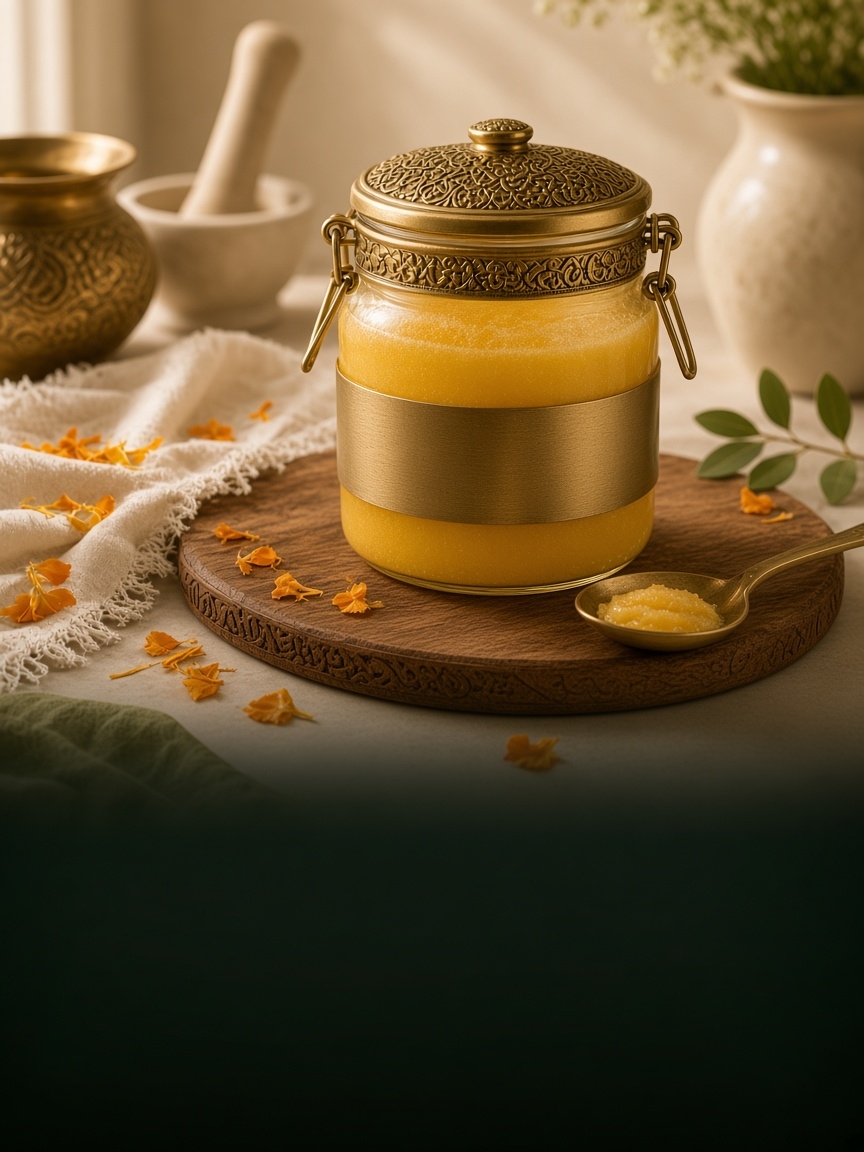
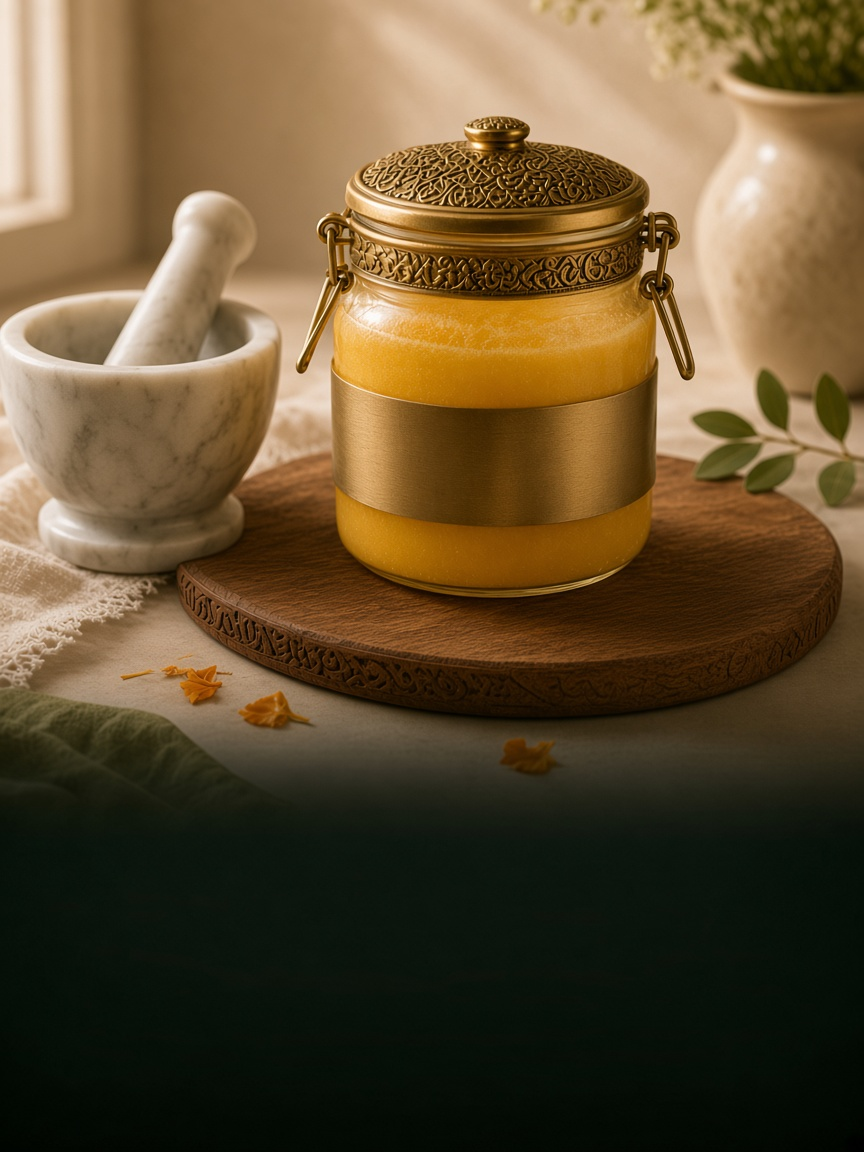
Tighten login card to match the premium split mock.
Fresh brass-jar hero, softer cream page wash, solid form panel, and darker perk chips so web auth reads closer to the reference.

diff --git a/mobile/src/components/auth/AuthSplitLayout.js b/mobile/src/components/auth/AuthSplitLayout.js
@@ -21,8 +21,8 @@ export default function AuthSplitLayout({ artTitle, artSubtitle, mode = "login",
     return <View style={styles.mobileOnly}>{children}</View>;
   }
 
-  const formBg = isDark ? "rgba(20,17,16,0.94)" : "rgba(255,252,246,0.94)";
-  const formBorder = isDark ? "rgba(52, 211, 153, 0.14)" : "rgba(31, 92, 71, 0.14)";
+  const formBg = isDark ? "#141110" : "#FFFEF9";
+  const formBorder = isDark ? "rgba(52, 211, 153, 0.14)" : "rgba(31, 92, 71, 0.1)";
 
   return (
     <View style={[styles.split, isXs && styles.splitStack]}>
@@ -34,14 +34,13 @@ export default function AuthSplitLayout({ artTitle, artSubtitle, mode = "login",
           accessibilityIgnoresInvertColors
         />
         <LinearGradient
-          colors={["rgba(18,16,12,0.28)", "rgba(18,16,12,0.5)", "rgba(12,10,8,0.9)"]}
-          locations={[0, 0.42, 1]}
+          colors={["rgba(18,16,12,0.22)", "rgba(18,16,12,0.42)", "rgba(12,10,8,0.82)"]}
+          locations={[0, 0.4, 1]}
           start={{ x: 0.5, y: 0 }}
           end={{ x: 0.5, y: 1 }}
           style={StyleSheet.absoluteFillObject}
         />
         <KankregGrainOverlay />
-        <View style={styles.artRing} pointerEvents="none" />
         <ScrollView
           style={styles.artScroll}
           contentContainerStyle={styles.artScrollContent}
@@ -64,7 +63,6 @@ export default function AuthSplitLayout({ artTitle, artSubtitle, mode = "login",
           styles.form,
           isXs && styles.formStack,
           { backgroundColor: formBg, borderLeftColor: formBorder },
-          Platform.OS === "web" && styles.formGlass,
         ]}
       >
         <ScrollView
@@ -88,19 +86,20 @@ const styles = StyleSheet.create({
     alignItems: "stretch",
     alignSelf: "center",
     width: "100%",
-    maxWidth: 980,
-    borderRadius: radius.xl + 6,
+    maxWidth: 1000,
+    borderRadius: 28,
     borderWidth: StyleSheet.hairlineWidth,
-    borderColor: "rgba(31, 92, 71, 0.16)",
+    borderColor: "rgba(31, 92, 71, 0.12)",
     overflow: "hidden",
+    backgroundColor: "#FFFEF9",
     ...Platform.select({
       web: {
         boxShadow:
-          "0 32px 72px rgba(22, 69, 51, 0.18), 0 8px 24px rgba(26, 23, 20, 0.08), 0 0 0 1px rgba(31, 92, 71, 0.06)",
-        minHeight: 620,
-        marginTop: 56,
-        marginBottom: 40,
-        marginHorizontal: spacing.md,
+          "0 28px 64px rgba(26, 23, 20, 0.14), 0 8px 20px rgba(22, 69, 51, 0.08)",
+        minHeight: 600,
+        marginTop: 48,
+        marginBottom: 48,
+        marginHorizontal: spacing.lg,
       },
       default: {
         minHeight: 560,
@@ -112,15 +111,13 @@ const styles = StyleSheet.create({
     minHeight: 0,
   },
   art: {
-    flex: 1,
+    flex: 1.05,
     alignSelf: "stretch",
     minWidth: 0,
     position: "relative",
     backgroundColor: "#1a1714",
-    borderTopLeftRadius: radius.xl + 4,
-    borderBottomLeftRadius: radius.xl + 4,
     ...Platform.select({
-      web: { minHeight: 640 },
+      web: { minHeight: 600 },
       default: { minHeight: 340, overflow: "hidden" },
     }),
   },
@@ -133,17 +130,6 @@ const styles = StyleSheet.create({
     width: "100%",
     height: "100%",
   },
-  artRing: {
-    position: "absolute",
-    top: "8%",
-    right: "-12%",
-    width: 280,
-    height: 280,
-    borderRadius: 140,
-    borderWidth: 1,
-    borderColor: "rgba(255,255,255,0.12)",
-    ...Platform.select({ web: { pointerEvents: "none" }, default: {} }),
-  },
   artScroll: {
     flex: 1,
     width: "100%",
@@ -151,28 +137,23 @@ const styles = StyleSheet.create({
   },
   artScrollContent: {
     flexGrow: 1,
-    justifyContent: "center",
-    paddingHorizontal: spacing.xl + 8,
-    paddingTop: spacing.xl + 4,
-    paddingBottom: spacing.xl + 12,
-    minHeight: Platform.OS === "web" ? 640 : 340,
+    justifyContent: "flex-end",
+    paddingHorizontal: spacing.xl + 4,
+    paddingTop: spacing.xl,
+    paddingBottom: spacing.xl + 8,
+    minHeight: Platform.OS === "web" ? 600 : 340,
   },
   form: {
-    flex: 1,
+    flex: 0.95,
     alignSelf: "stretch",
     minWidth: 300,
-    padding: spacing.xl + 10,
+    paddingHorizontal: spacing.xl + 12,
+    paddingVertical: spacing.xl + 8,
     borderLeftWidth: StyleSheet.hairlineWidth,
-    borderTopRightRadius: radius.xl + 6,
-    borderBottomRightRadius: radius.xl + 6,
     ...Platform.select({
-      web: { minHeight: 620 },
+      web: { minHeight: 600 },
       default: {},
     }),
-  },
-  formGlass: {
-    backdropFilter: "blur(10px)",
-    WebkitBackdropFilter: "blur(10px)",
   },
   formScrollContent: {
     flexGrow: 1,
@@ -186,8 +167,5 @@ const styles = StyleSheet.create({
     borderLeftWidth: 0,
     borderTopWidth: StyleSheet.hairlineWidth,
     borderTopColor: KANKREG_PALETTE.line,
-    borderTopRightRadius: 0,
-    borderBottomLeftRadius: radius.xl + 6,
-    borderBottomRightRadius: radius.xl + 6,
   },
 });

diff --git a/mobile/src/components/auth/AuthPageBackdrop.js b/mobile/src/components/auth/AuthPageBackdrop.js
@@ -22,9 +22,9 @@ export default function AuthPageBackdrop({ children }) {
         colors={
           isDark
             ? ["rgba(12,10,8,0.72)", "rgba(12,10,8,0.88)", "rgba(12,10,8,0.94)"]
-            : ["rgba(248,244,234,0.55)", "rgba(245,239,228,0.78)", "rgba(240,233,218,0.9)"]
+            : ["rgba(253,250,244,0.72)", "rgba(250,245,234,0.82)", "rgba(247,241,228,0.9)"]
         }
-        locations={[0, 0.55, 1]}
+        locations={[0, 0.5, 1]}
         start={{ x: 0.5, y: 0 }}
         end={{ x: 0.5, y: 1 }}
         style={StyleSheet.absoluteFillObject}

diff --git a/mobile/src/components/auth/AuthHeroPanel.js b/mobile/src/components/auth/AuthHeroPanel.js
@@ -167,12 +167,13 @@ const styles = StyleSheet.create({
   },
   perkColumn: {
     maxWidth: "100%",
-    width: "100%",
-    borderRadius: 12,
+    width: "auto",
+    alignSelf: "flex-start",
+    borderRadius: 999,
   },
   perkOnDark: {
-    backgroundColor: "rgba(255,255,255,0.08)",
-    borderColor: "rgba(42, 117, 89, 0.28)",
+    backgroundColor: "rgba(18, 16, 12, 0.48)",
+    borderColor: "rgba(255,255,255,0.14)",
   },
   perkOnLight: {
     backgroundColor: "rgba(31, 92, 71, 0.08)",

diff --git a/mobile/src/content/appContent.js b/mobile/src/content/appContent.js
@@ -927,7 +927,7 @@ export const AUTH_UI = {
   loginSubtitle: "Sign in to save your bag, track orders, and checkout faster.",
   loginCta: "Sign in",
   loginFormEyebrow: "Account",
-  loginHeroEyebrow: `Zeevan · ${ZEEVAN_CATALOG_SUBLINE}`,
+  loginHeroEyebrow: ZEEVAN_CATALOG_SUBLINE,
   loginHeroTitle: "Your pantry,\nbeautifully kept.",
   loginPerks: [
     { icon: "bag-handle-outline", label: "Saved bag & orders" },

diff --git a/mobile/src/components/auth/AuthFormShell.js b/mobile/src/components/auth/AuthFormShell.js
@@ -157,8 +157,8 @@ const styles = StyleSheet.create({
   },
   fields: {
     width: "100%",
-    gap: spacing.sm + 2,
-    marginTop: spacing.sm,
+    gap: spacing.md,
+    marginTop: spacing.md,
   },
   forgotWrap: {
     alignSelf: "flex-end",
